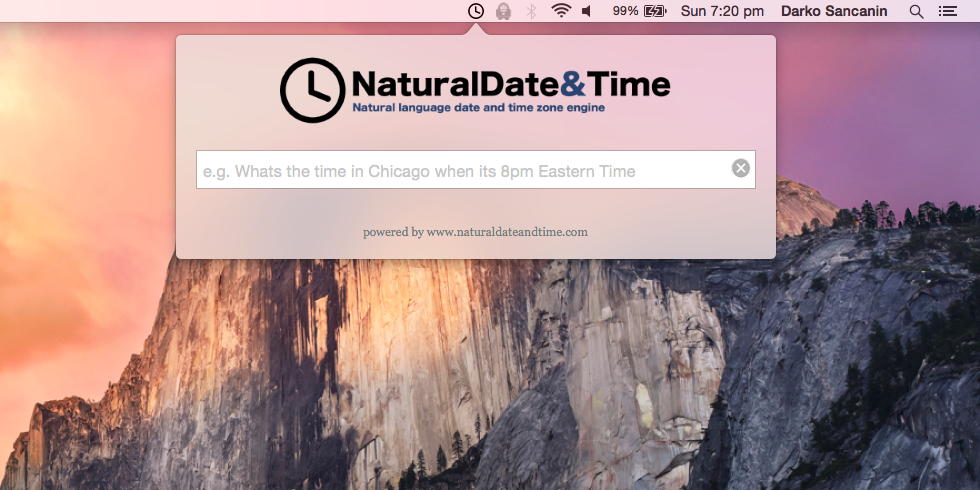
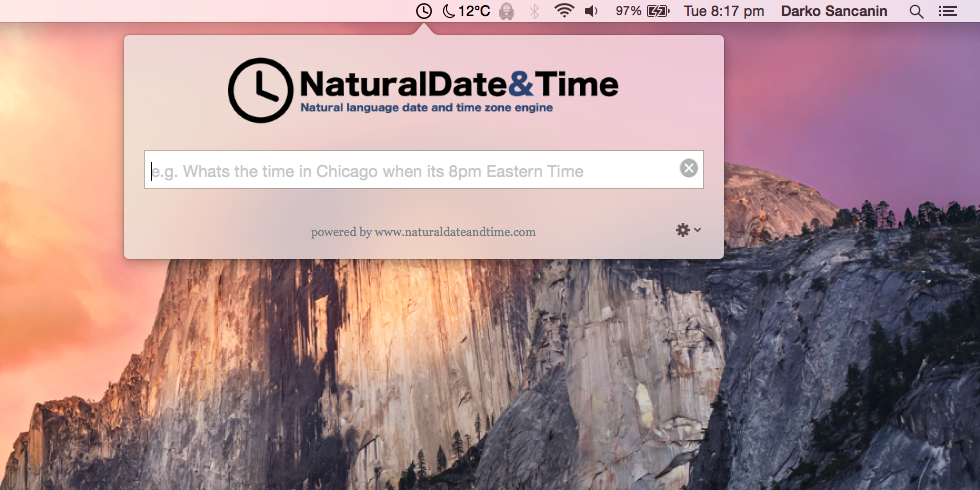
Changed screenshots to include nspopupbutton.

diff --git a/readme.md b/readme.md
@@ -11,3 +11,5 @@ See https://github.com/darkosancanin/naturaldatetime_web and http://www.naturald
 ![Mac OS X](https://raw.githubusercontent.com/darkosancanin/naturaldatetime_osx/master/other/screenshots/screenshot_2.png)
 
 ![Mac OS X](https://raw.githubusercontent.com/darkosancanin/naturaldatetime_osx/master/other/screenshots/screenshot_3.png)
+
+![Mac OS X](https://raw.githubusercontent.com/darkosancanin/naturaldatetime_osx/master/other/screenshots/screenshot_4.png)
